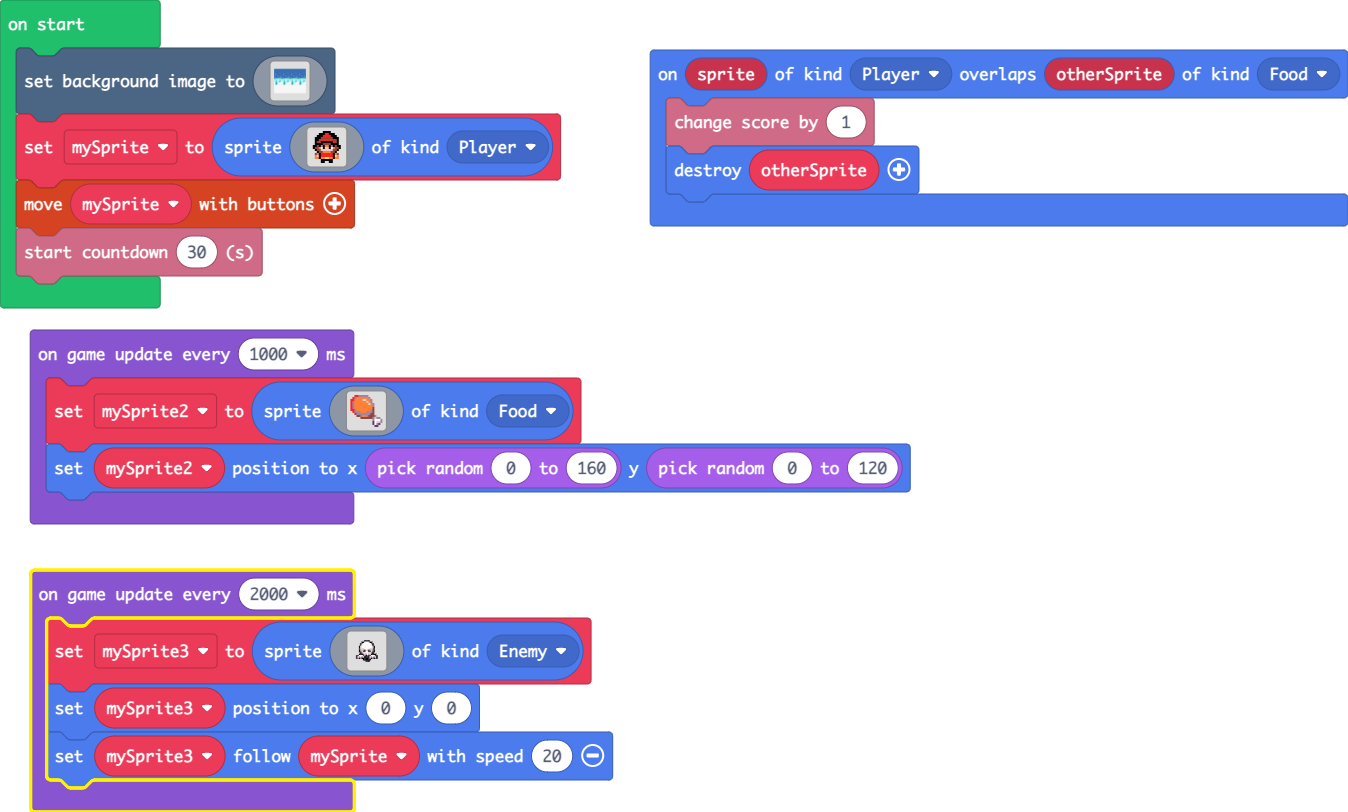
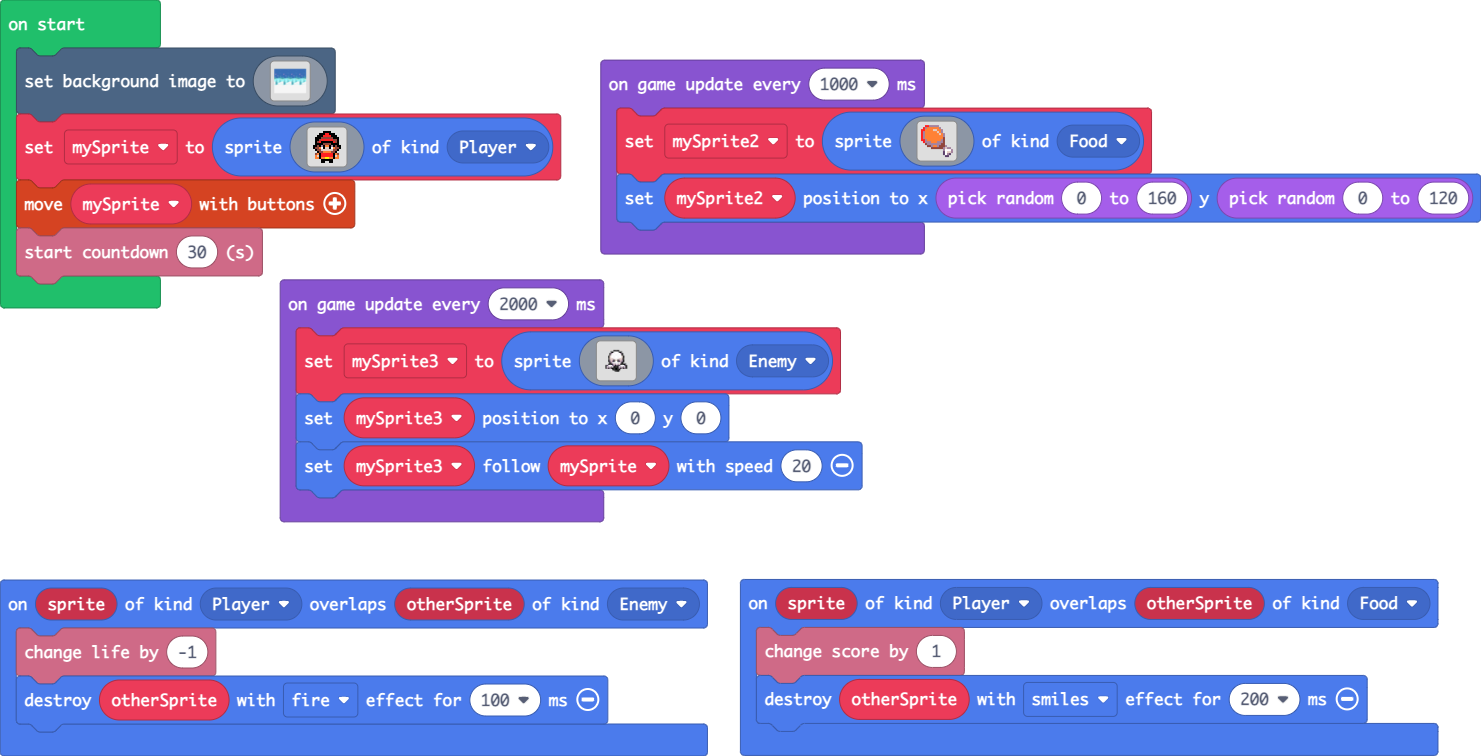
Update main.blocks, main.ts

diff --git a/main.ts b/main.ts
@@ -1,6 +1,10 @@
 sprites.onOverlap(SpriteKind.Player, SpriteKind.Food, function (sprite, otherSprite) {
     info.changeScoreBy(1)
-    otherSprite.destroy()
+    otherSprite.destroy(effects.smiles, 200)
+})
+sprites.onOverlap(SpriteKind.Player, SpriteKind.Enemy, function (sprite, otherSprite) {
+    info.changeLifeBy(-1)
+    otherSprite.destroy(effects.fire, 100)
 })
 let mySprite2: Sprite = null
 let mySprite3: Sprite = null
